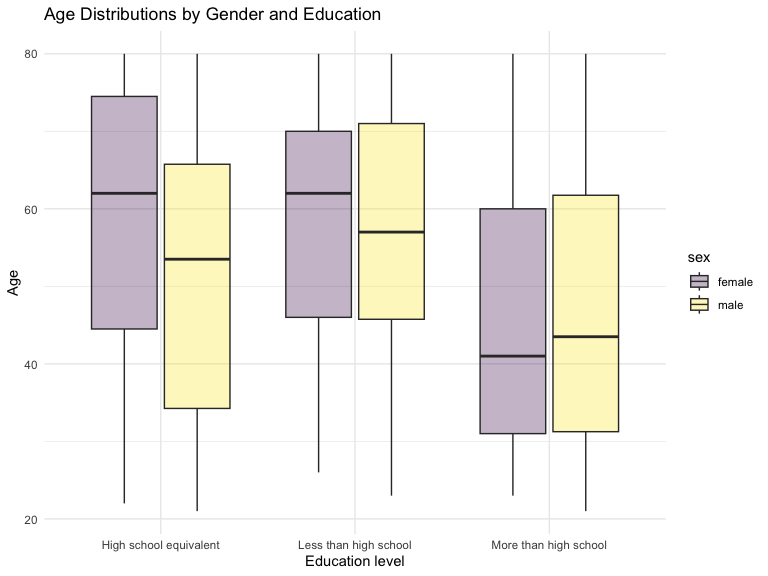
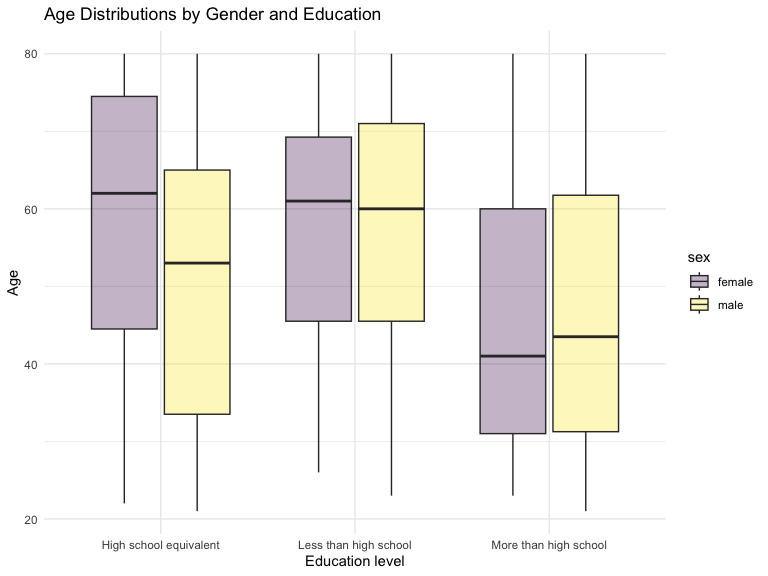
some edits in problem 2 & 3

diff --git a/p8105_hw3_hj2660.md b/p8105_hw3_hj2660.md
@@ -188,6 +188,7 @@ brfss_df |>
 ```
 
 <img src="p8105_hw3_hj2660_files/figure-gfm/unnamed-chunk-11-1.png" width="90%" />
+comment:
 
 ## Problem 3
 
@@ -207,7 +208,8 @@ covar_df =
     education = recode(education, "1" = "Less than high school", "2" = "High school equivalent", "3" = "More than high school")) |>
   mutate(
     sex = factor(sex), education = factor(education)) |>
-  filter(age >= 21)
+  filter(age >= 21) |>
+  drop_na()
 
 #Import and tidy accelerometer info
 accel_df =
@@ -218,8 +220,7 @@ accel_df =
 merged_nhanes = merge(covar_df, accel_df, by = "seqn")
 ```
 
-Produce a reader-friendly table for the number of men and women in each
-education category
+Table for the number of men and women in each education category
 
 ``` r
 gender_edu = merged_nhanes |>
@@ -232,12 +233,12 @@ kable(gender_edu,
 
 | education              | female | male |
 |:-----------------------|-------:|-----:|
-| High school equivalent |     23 |   36 |
-| Less than high school  |     29 |   28 |
+| High school equivalent |     23 |   35 |
+| Less than high school  |     28 |   27 |
 | More than high school  |     59 |   56 |
 
-create a visualization of the age distributions for men and women in
-each education category.
+Visualization of the age distributions for men and women in each
+education category.
 
 ``` r
 ggplot(merged_nhanes, aes(x = education, y = age, fill = sex)) +
@@ -259,16 +260,9 @@ trend line or a smooth to illustrate differences. Comment on your plot.
 
 ``` r
 plot2_nhanes = merged_nhanes |>
-  rowwise() |>
-  mutate(total_activity = sum(c_across(starts_with("min")))) |>
-  group_by(education, sex, age) |>
-  summarize(total_activity = sum(total_activity))
-```
+  mutate(total_activity = rowSums(select(merged_nhanes, starts_with("min"))))
 
-    ## `summarise()` has grouped output by 'education', 'sex'. You can override using
-    ## the `.groups` argument.
-
-``` r
+#Make a plot
 ggplot(plot2_nhanes, aes(x = age, y = total_activity, color = sex)) +
   geom_point(alpha = 0.5) +
   facet_wrap(~education) +
@@ -290,13 +284,27 @@ including smooth trends may help identify differences.
 
 ``` r
 plot3_nhanes = merged_nhanes |>
-  
-  
-ggplot(, aes(x = , y = , color = sex)) +
-  geom_point(alpha = 0.5) +
+  group_by(education, sex) |>
+  summarize(across(starts_with("min"), ~mean(.), .names = "mean_{.col}")) |>
+  pivot_longer(cols = starts_with("mean_"), names_to = "time", values_to = "mean") |>
+  mutate(time = substring(time, 9),
+         time = as.numeric(time))
+```
+
+    ## `summarise()` has grouped output by 'education'. You can override using the
+    ## `.groups` argument.
+
+``` r
+ggplot(plot3_nhanes, aes(x = time, y = mean, color = sex)) +
+  geom_point(alpha = 0.1) +
   facet_wrap(~education) +
   geom_smooth() +
   labs(title = "24-hour Activity by Age and Education",
        y = "Mean Value of Activity",
-       x = "Time(min)")
+       x = "Time(min)",
+       color = "Sex")
 ```
+
+    ## `geom_smooth()` using method = 'gam' and formula = 'y ~ s(x, bs = "cs")'
+
+<img src="p8105_hw3_hj2660_files/figure-gfm/unnamed-chunk-16-1.png" width="90%" />
